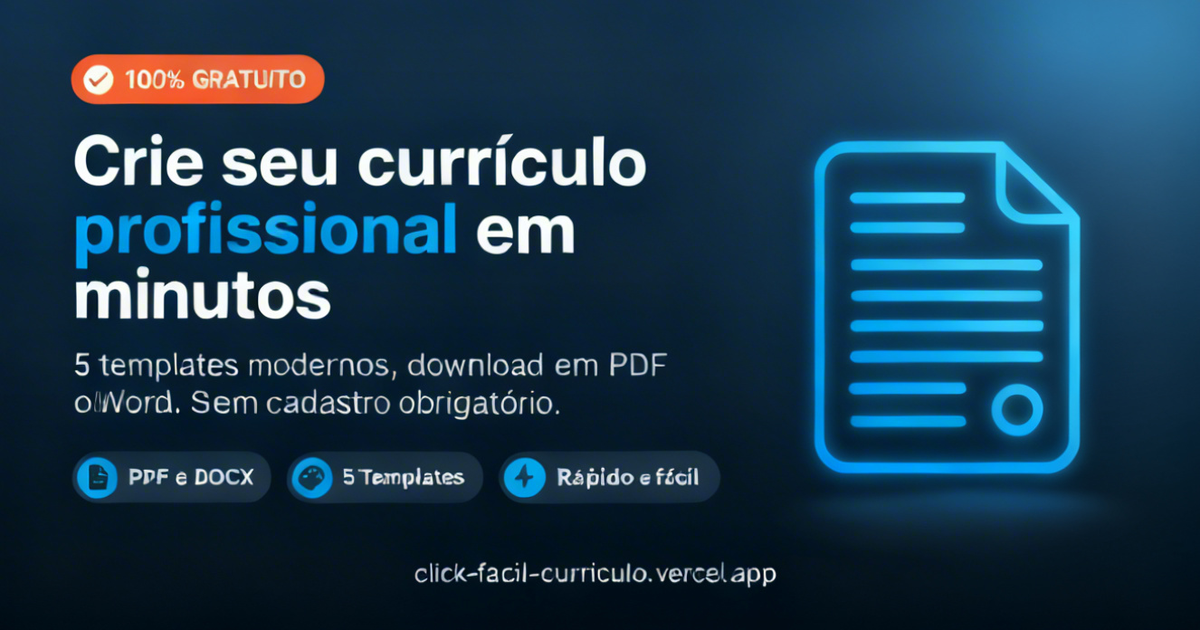
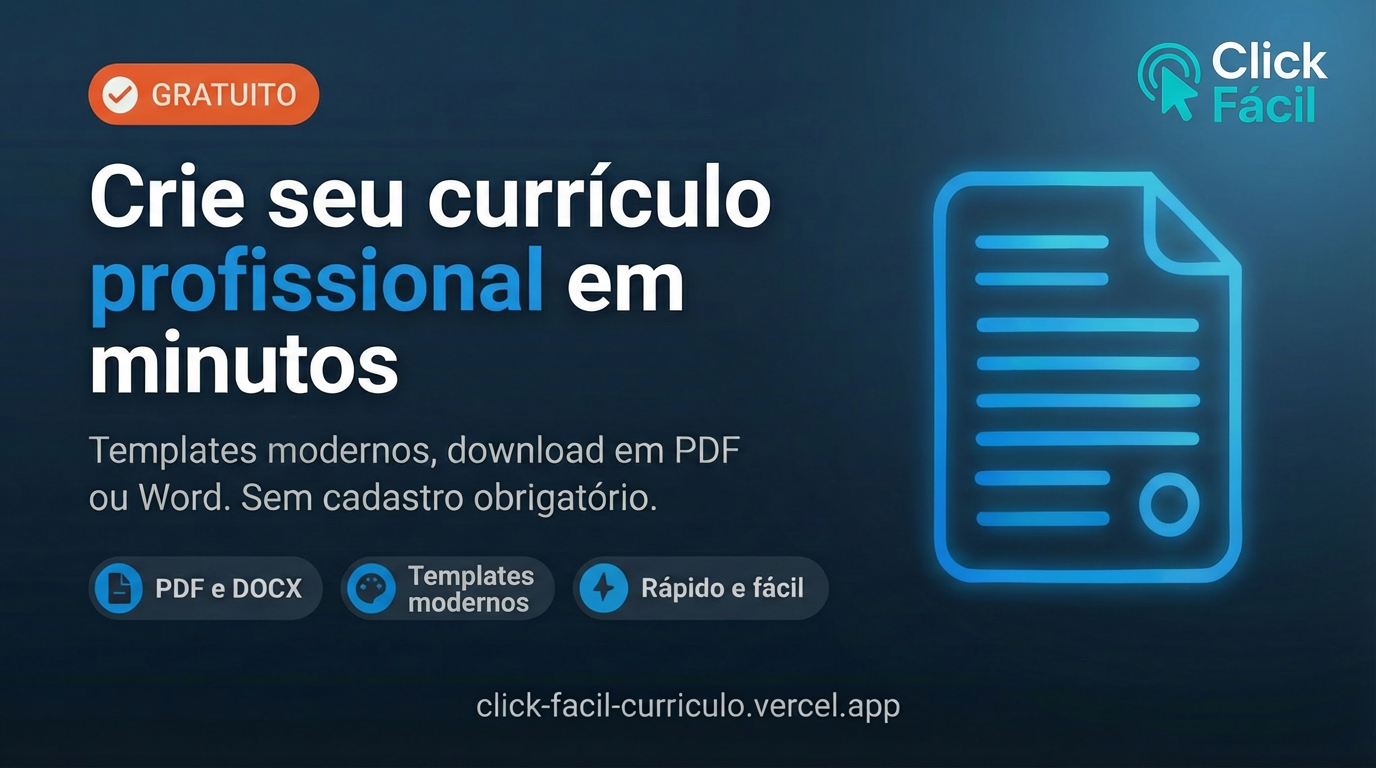
ajustes de imagem og

diff --git a/index.html b/index.html
@@ -17,11 +17,15 @@
     <meta property="og:url" content="https://click-facil-curriculo.vercel.app/" />
     <meta property="og:title" content="Click Fácil | Gerador de Currículo Grátis Online" />
     <meta property="og:description" content="Crie seu currículo profissional grátis em minutos. 5 templates modernos, download em PDF ou Word. Sem cadastro obrigatório." />
-    <meta property="og:image" content="/og-image.png" />
+    <meta property="og:image" content="https://click-facil-curriculo.vercel.app/og-image.png" />
     <meta property="og:image:width" content="1200" />
     <meta property="og:image:height" content="630" />
     <meta property="og:locale" content="pt_BR" />
     <meta property="og:site_name" content="Click Fácil" />
+    <!-- Imagem quadrada — preferida pelo WhatsApp -->
+    <meta property="og:image" content="https://click-facil-curriculo.vercel.app/og-image-wpp.png" />
+    <meta property="og:image:width" content="1200" />
+    <meta property="og:image:height" content="1200" />
 
     <!-- Twitter Card -->
     <meta name="twitter:card" content="summary_large_image" />
